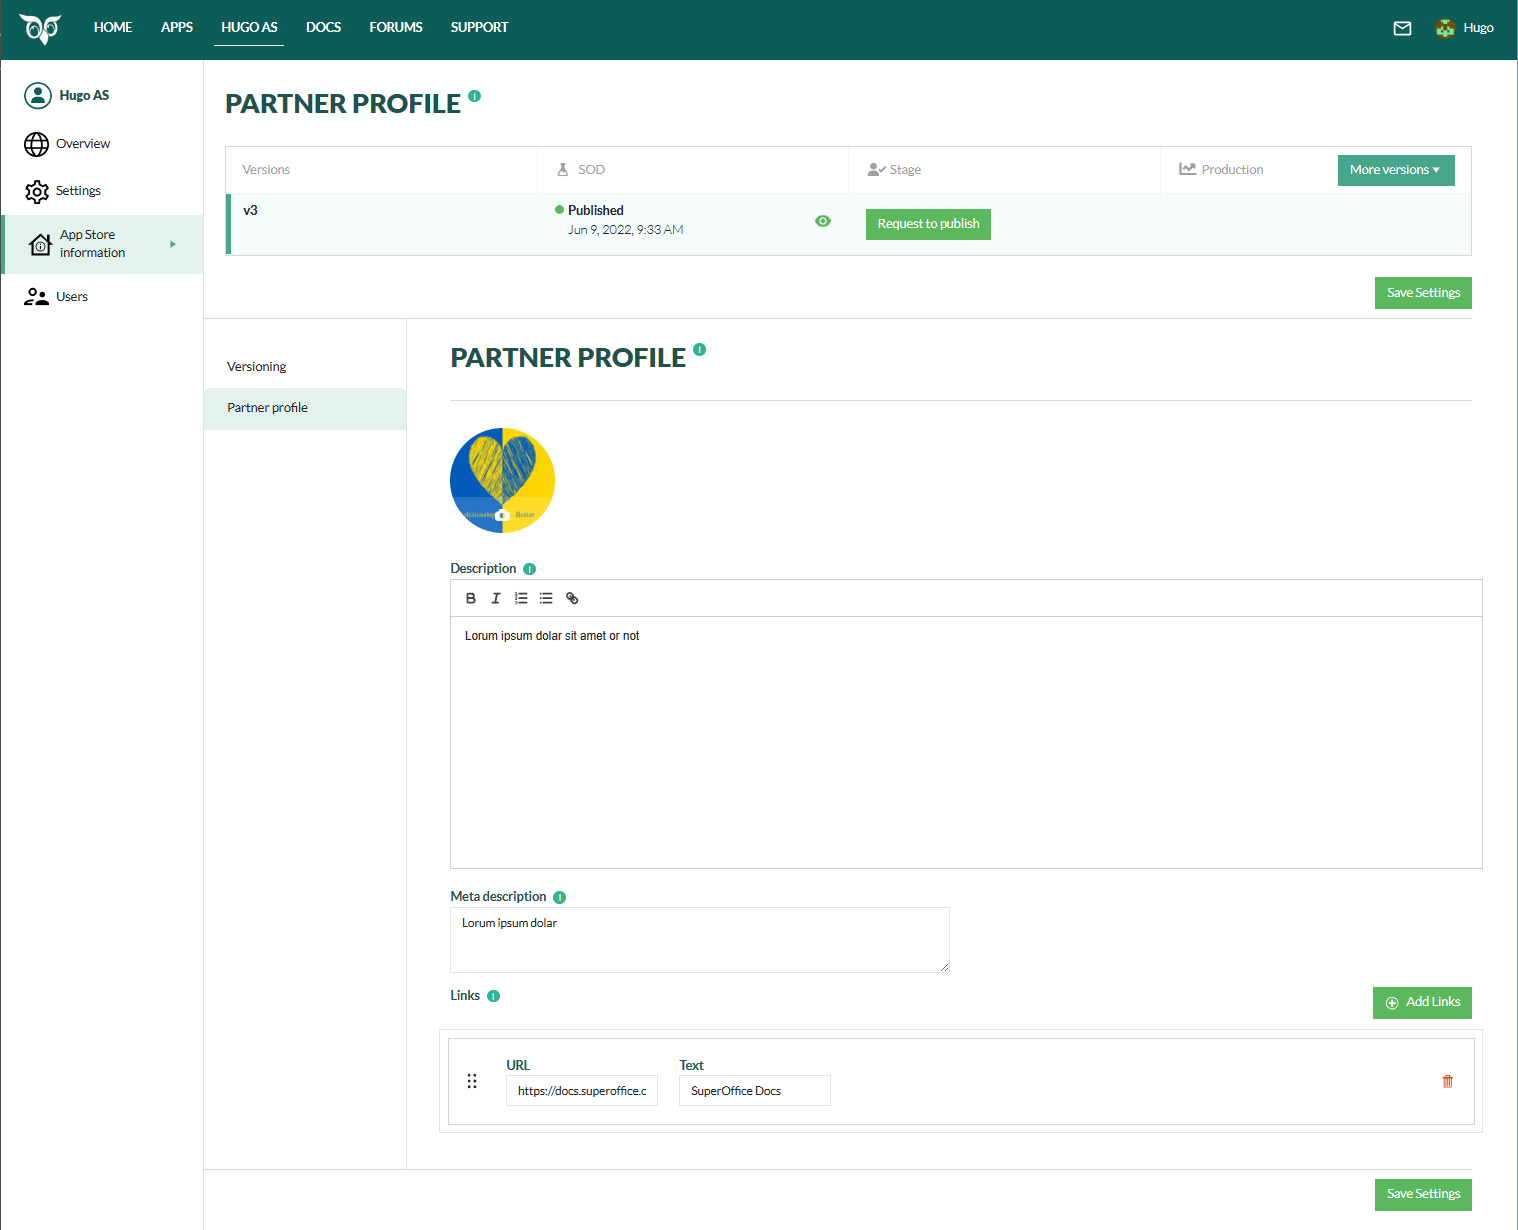
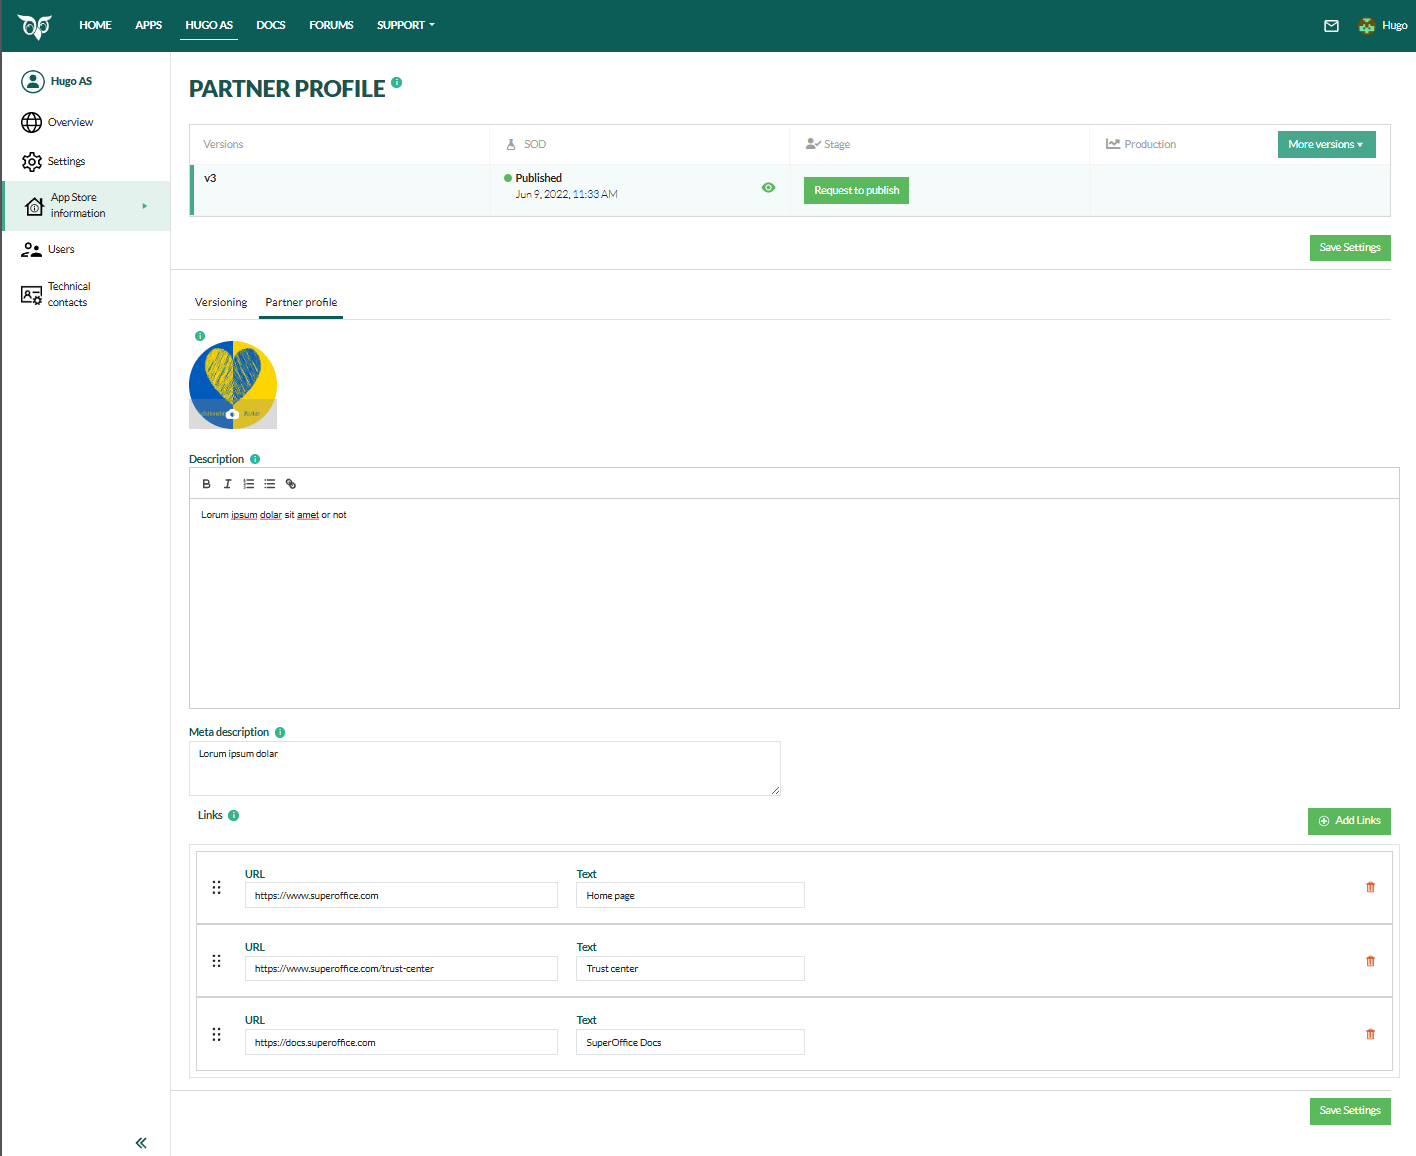
#1340 DP 1.26 partner profile update

diff --git a/docs/en/developer-portal/standard-app/app-store/update-partner-profile.md b/docs/en/developer-portal/standard-app/app-store/update-partner-profile.md
@@ -1,12 +1,12 @@
 ---
-title: Update partner profile
 uid: dp-update-partner-profile
+title: Update partner profile
 description: How to update your partner profile in the SuperOffice Developer Portal.
-author: Bergfrid Dias
-date: 11.15.2023
 keywords: Developer Portal, profile
+author: Bergfrid Dias
+date: 09.18.2024
+version_devportal: 1.26
 topic: howto
-version_devportal: 1.16
 envir: cloud
 ---
 
@@ -19,13 +19,14 @@ The information shown on your partner profile page in the App Store comes from:
 
 ![App Store information for a partner -screenshot][img1]
 
+**Steps:**
+
 1. In the Developer Portal, go to your partner page.
 2. Select **App Store information** from the left menu.
 3. [Create a new version.][1]
 4. Select **Partner profile** and then update logo, description, meta description, and links such as home page and your trust center URLs. Click **Add Links** to enter additional URLs.
 
-    ![Links to home page and trust center -screenshot ][img3]
-    <!--TODO retake after URL field is lengthened -->
+    ![Links to home page and trust center -screenshot][img3]
 
     > [!TIP]
     > [!include[Link to partner settings](../../includes/see-partner-settings.md)]
@@ -67,7 +68,6 @@ When you are happy with how it looks, return to your partner page in the Develop
 [4]: https://appstore-sod.superoffice.com/
 
 <!-- Referenced images -->
-<!--519-->
 [img1]: media/partner-profile.png
 [img3]: media/recommended-links.png
 [img2]: ../../media/request-to-publish.png
